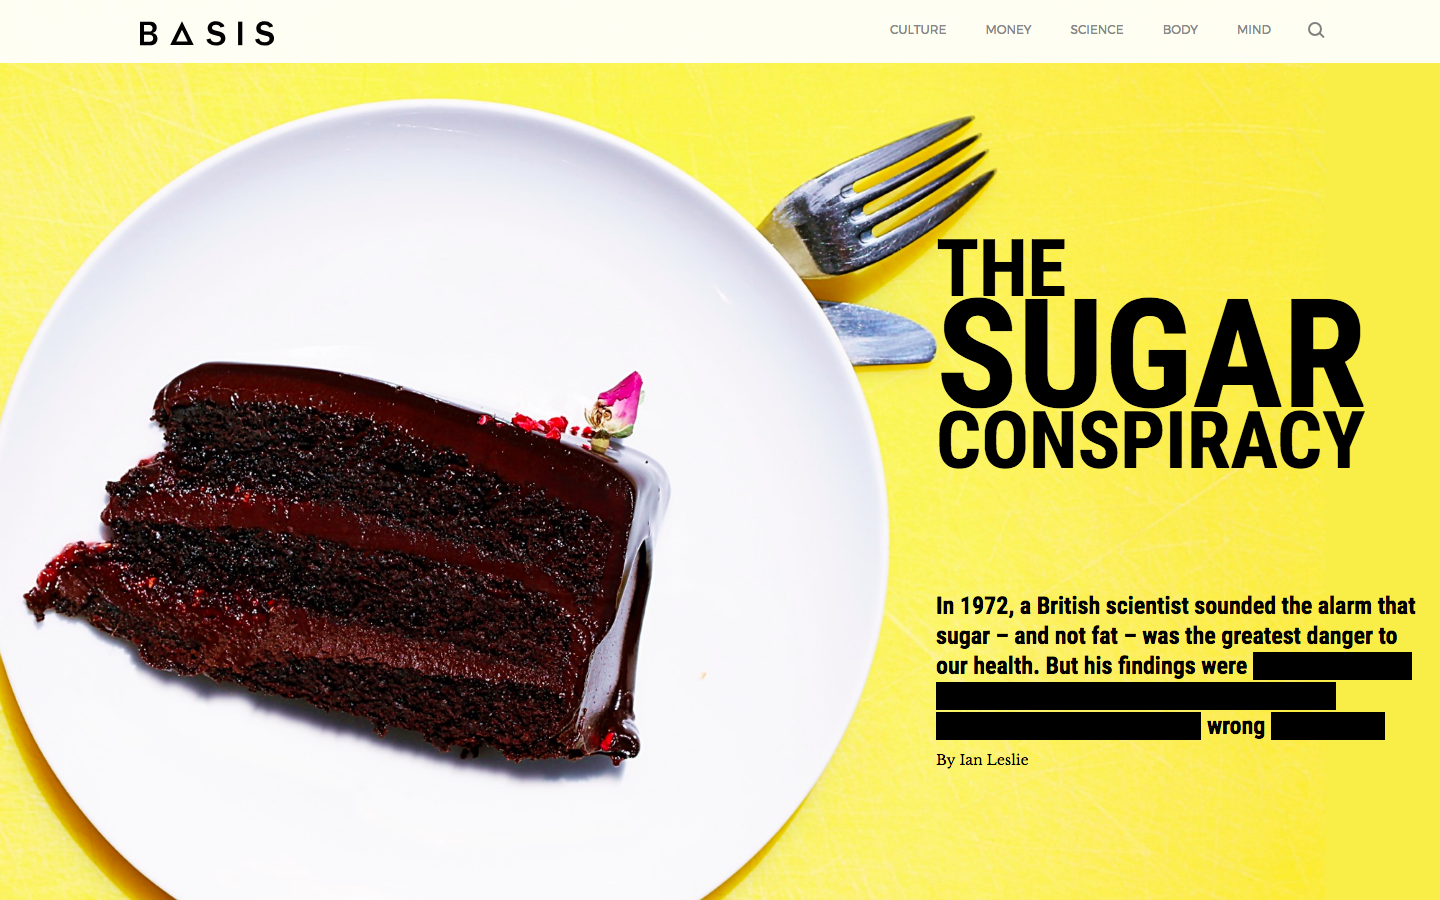
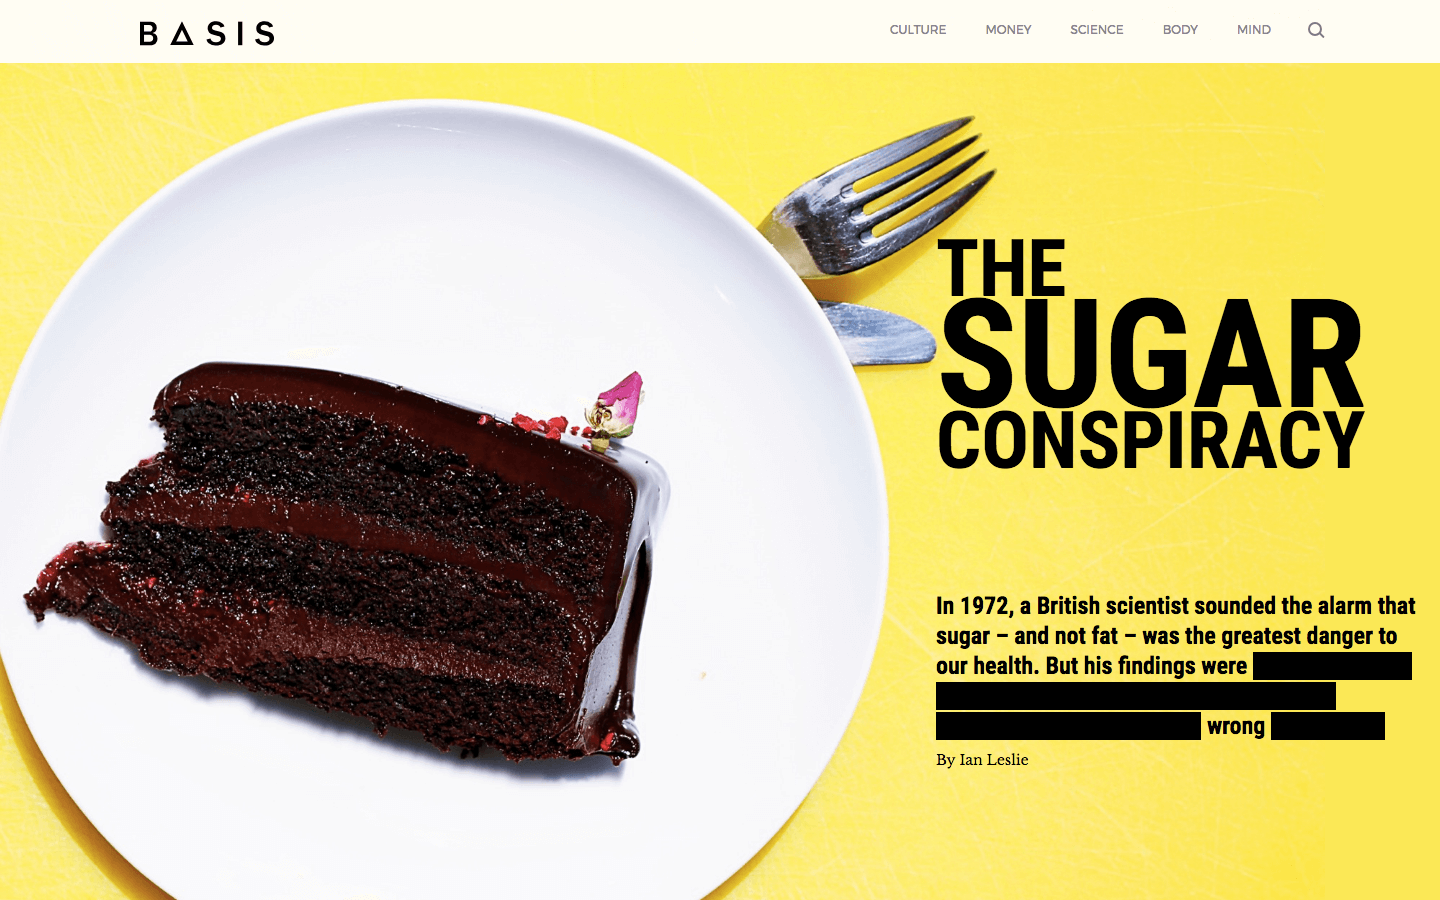
optimized images

diff --git a/css/project.css b/css/project.css
@@ -330,7 +330,7 @@ body {
 }
 
 #proj-navigation-asam {
-    background-image: url('../img/work-grid-asam.png');
+    background-image: url('../img/work-grid-asam.jpg');
 }
 
 #proj-navigation-extra {

diff --git a/css/project-asam.css b/css/project-asam.css
@@ -1,7 +1,7 @@
 /* FEATURED IMAGE */
 
 #proj-asam-img-01 {
-    background-image: url('../img/work-grid-asam.png');
+    background-image: url('../img/work-grid-asam.jpg');
 }
 
 /* MOODBOARD */
